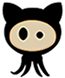
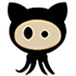
working buttons with images preloaded

Changed region(s): [[0.4308, 0.0, 0.9846, 1.0], [0.0308, 0.0263, 0.4615, 1.0], [0.5231, 0.3684, 0.7077, 0.5263]]

diff --git a/js/game.js b/js/game.js
@@ -72,7 +72,11 @@ var randomCode;
 
 //game buttons variables
 var btn1;
+var btn2;
+var btn3;
 var isBtn1Done = false;
+var isBtn2Done = false;
+var isBtn3Done = false;
 var activeBtn;
 
 //game keys variables
@@ -120,7 +124,6 @@ function genRandom() {
 function handleQuest(event) {
   stopClickEvents();
   activeBtn = event.target.id;
-
   var pEl = document.createElement('p');
   pEl.textContent = currentRiddles[answered].question;
   questBox.appendChild(pEl);
@@ -131,6 +134,24 @@ function handleQuest(event) {
 function stopClickEvents() {
   if(!isBtn1Done) {
     btn1.removeEventListener('click', handleQuest);
+  }
+  if(!isBtn2Done) {
+    btn2.removeEventListener('click', handleQuest);
+  }
+  if(!isBtn3Done) {
+    btn3.removeEventListener('click', handleQuest);
+  }
+}
+
+function startClickEvents() {
+  if(!isBtn1Done) {
+    btn1.removeEventListener('click', handleQuest);
+  }
+  if(!isBtn2Done) {
+    btn2.removeEventListener('click', handleQuest);
+  }
+  if(!isBtn3Done) {
+    btn3.removeEventListener('click', handleQuest);
   }
 }
 
@@ -149,21 +170,50 @@ function handleAnswer(event) {
 }
 
 function correctAnswer() {
+  var currentBtn;
+  var currentKey;
+  var currentNum;
   if(activeBtn === 'btn1'){
-    btn1.classList.add('fadeout-top');
-    btn1.style.cursor = 'auto';
+    currentBtn = btn1;
+    currentKey = key1;
+    currentNum = 1;
     isBtn1Done = true;
-    keyTimer = setTimeout(function(){
-      key1.classList.add('move-to-origin');
-      pipeTimer = setTimeout(key1Complete,1000);
-    },800);
   }
+  if(activeBtn === 'btn2'){
+    currentBtn = btn2;
+    currentKey = key2;
+    currentNum = 2;
+    isBtn2Done = true;
+  }
+  if(activeBtn === 'btn3'){
+    currentBtn = btn3;
+    currentKey = key3;
+    currentNum = 3;
+    isBtn3Done = true;
+  }
+  currentBtn.classList.add('fadeout-top');
+  currentBtn.style.cursor = 'auto';
+  keyTimer = setTimeout(function(){
+    currentKey.classList.add('move-to-origin');
+    pipeTimer = setTimeout(function(){
+      keyComplete(currentNum);
+    },1000);
+  },800);
 }
 
-function key1Complete() {
+function keyComplete(key) {
   clearTimeout(keyTimer);
   clearTimeout(pipeTimer);
-  pipeOne.style.backgroundImage = 'url(\'img/game-pipe-green.png\')';
+  if (key === 1) {
+    pipeOne.style.backgroundImage = 'url(\'img/game-pipe-green.png\')';
+  }
+  if (key === 2) {
+    pipeTwo.style.backgroundImage = 'url(\'img/game-pipe-green.png\')';
+  }
+  if (key === 3) {
+    pipeThree.style.backgroundImage = 'url(\'img/game-pipe-green.png\')';
+  }
+  startClickEvents();
 }
 
 function getRandomCode() {
@@ -316,6 +366,10 @@ function init() {
 
   btn1 = document.getElementById('btn1');
   btn1.addEventListener('click', handleQuest);
+  btn2 = document.getElementById('btn2');
+  btn2.addEventListener('click', handleQuest);
+  btn3 = document.getElementById('btn3');
+  btn3.addEventListener('click', handleQuest);
 
   code = document.getElementById('killcodes');
   code.addEventListener('submit', getCode);
@@ -330,6 +384,9 @@ function init() {
   key1 = document.getElementById('key1');
   key2 = document.getElementById('key2');
   key3 = document.getElementById('key3');
+  key1.classList.remove('hide');
+  key2.classList.remove('hide');
+  key3.classList.remove('hide');
 
   pipeOne = document.getElementById('pipeOne');
   pipeTwo = document.getElementById('pipeTwo');

diff --git a/game.html b/game.html
@@ -22,13 +22,13 @@
         <div id="pipeThree" class="pipe3"></div>
         <img class="btm-layer center" src="img/game-bottom-layer.png" alt="game layout">
         <div class="key-box">
-          <img id="key1" class="img1-init-pos" src="http://via.placeholder.com/76x76.jpg/111" />
-          <img id="key2" class="img2-init-pos" src="http://via.placeholder.com/76x76.jpg/111" />
-          <img id="key3" class="img3-init-pos" src="http://via.placeholder.com/76x76.jpg/111" />
+          <img id="key1" class="img1-init-pos hide" src="img/octocat.png" />
+          <img id="key2" class="img2-init-pos hide" src="img/unicorn.png" />
+          <img id="key3" class="img3-init-pos hide" src="http://via.placeholder.com/76x76.jpg/111" />
         </div>
-        <div class="btn1" id="btn1"></div>
-        <div class="btn2"></div>
-        <div class="btn3"></div>
+        <div id="btn1" class="btn1"></div>
+        <div id="btn2" class="btn2"></div>
+        <div id="btn3" class="btn3"></div>
         <div class="timer-box">
           <div class="timer">
             <div id="clockdiv"></div>
@@ -84,6 +84,10 @@
     <p>&copy; Team Cold Brew 2019</p>
   </footer>
 
+  <div class="preload">
+    <img src="img/game-button-click.png">
+    <img src="img/game-button-hover.png">
+  </div>
 
   <script src="js/game.js"></script>
 

diff --git a/css/styles.css b/css/styles.css
@@ -21,6 +21,10 @@
   background-size: contain;
 }
 
+.hide {
+  opacity: 0;
+}
+
 .txt-center {
   text-align: center;
 }

diff --git a/css/game.css b/css/game.css
@@ -1,3 +1,7 @@
+.preload {
+  display: none;
+}
+
 .game-main img:first-child {
   margin-top: 1em;
 }
